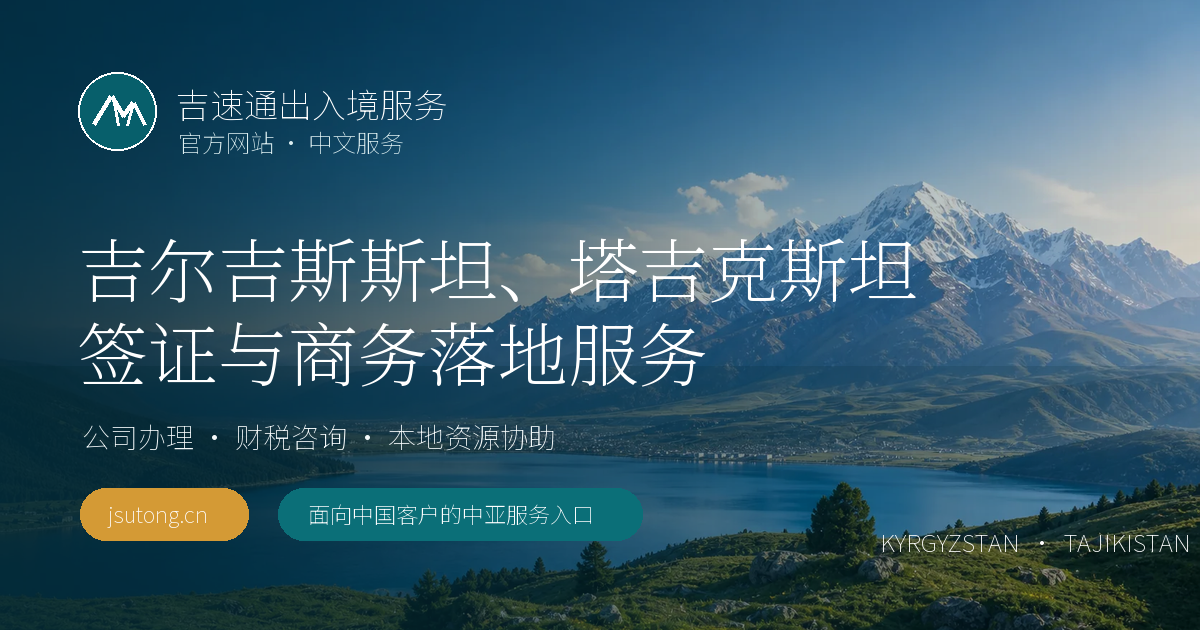
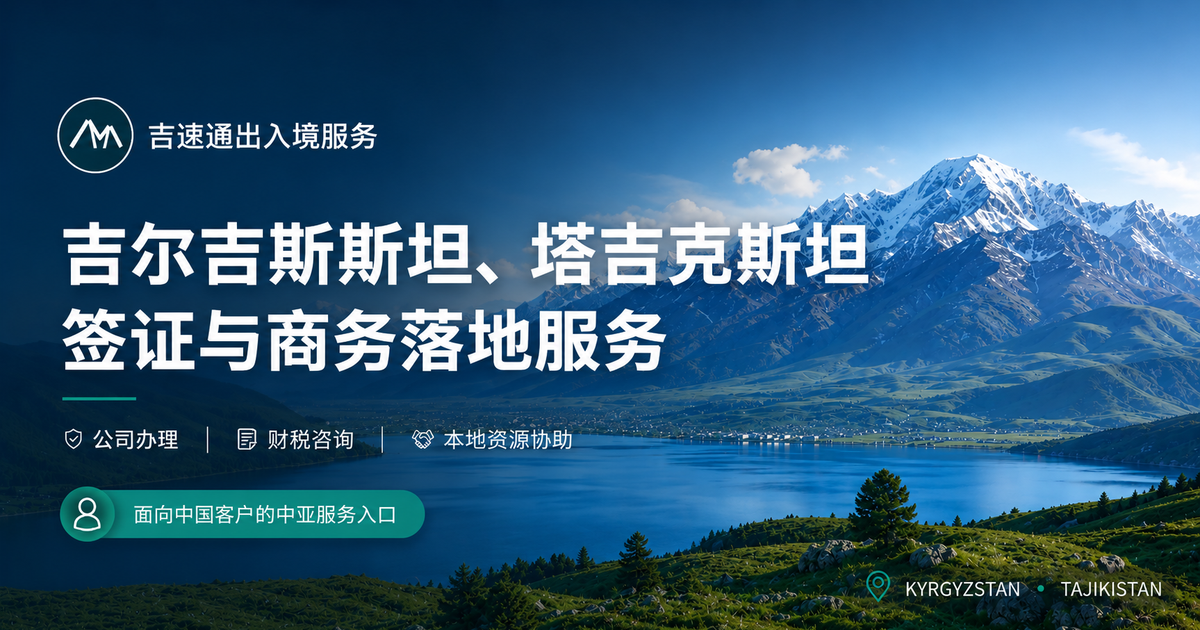
Use provided social preview image

diff --git a/scripts/generate-social-preview.py b/scripts/generate-social-preview.py
@@ -2,97 +2,25 @@ from __future__ import annotations
 
 from pathlib import Path
 
-from PIL import Image, ImageDraw, ImageEnhance, ImageFont
+from PIL import Image, ImageOps
 
 
 ROOT = Path(__file__).resolve().parents[1]
-SOURCE_IMAGE = ROOT / "frontend" / "src" / "assets" / "central-asia-hero.webp"
+SOURCE_IMAGE = ROOT / "docs" / "design" / "social-preview-source.png"
 OUTPUT_IMAGE = ROOT / "frontend" / "public" / "social-preview.png"
-WIDTH = 1200
-HEIGHT = 630
-
-
-def font(size: int, bold: bool = False, serif: bool = False) -> ImageFont.FreeTypeFont:
-    candidates = [
-        Path("C:/Windows/Fonts/NotoSerifSC-VF.ttf") if serif else None,
-        Path("C:/Windows/Fonts/NotoSansSC-VF.ttf"),
-        Path("C:/Windows/Fonts/msyhbd.ttc") if bold else Path("C:/Windows/Fonts/msyh.ttc"),
-        Path("C:/Windows/Fonts/simhei.ttf"),
-    ]
-    for candidate in candidates:
-        if candidate and candidate.exists():
-            return ImageFont.truetype(str(candidate), size=size)
-    return ImageFont.load_default()
-
-
-def cover(image: Image.Image, size: tuple[int, int]) -> Image.Image:
-    target_w, target_h = size
-    scale = max(target_w / image.width, target_h / image.height)
-    resized = image.resize((round(image.width * scale), round(image.height * scale)), Image.LANCZOS)
-    left = (resized.width - target_w) // 2
-    top = max(0, (resized.height - target_h) // 2 - 10)
-    return resized.crop((left, top, left + target_w, top + target_h))
-
-
-def draw_gradient_overlay(base: Image.Image) -> Image.Image:
-    overlay = Image.new("RGBA", base.size, (0, 0, 0, 0))
-    pixels = overlay.load()
-    for x in range(WIDTH):
-        ratio = x / WIDTH
-        alpha = round(192 * (1 - ratio) + 36 * ratio)
-        for y in range(HEIGHT):
-            vertical = 30 if y > HEIGHT * 0.58 else 0
-            pixels[x, y] = (4, 43, 55, min(225, alpha + vertical))
-    return Image.alpha_composite(base.convert("RGBA"), overlay)
-
-
-def rounded_rectangle(draw: ImageDraw.ImageDraw, box: tuple[int, int, int, int], radius: int, fill: str) -> None:
-    draw.rounded_rectangle(box, radius=radius, fill=fill)
-
-
-def draw_logo(draw: ImageDraw.ImageDraw, x: int, y: int) -> None:
-    draw.ellipse((x, y, x + 78, y + 78), fill="#075f6b", outline=(255, 255, 255, 130), width=2)
-    mountain = [(x + 16, y + 52), (x + 33, y + 24), (x + 45, y + 44), (x + 55, y + 30), (x + 66, y + 52)]
-    draw.line(mountain, fill="#ffffff", width=4, joint="curve")
-    draw.line((x + 35, y + 25, x + 40, y + 53), fill="#ffffff", width=3)
-    draw.line((x + 55, y + 31, x + 49, y + 53), fill="#ffffff", width=3)
+TARGET_SIZE = (1200, 630)
 
 
 def main() -> None:
-    hero = Image.open(SOURCE_IMAGE).convert("RGB")
-    hero = cover(hero, (WIDTH, HEIGHT))
-    hero = ImageEnhance.Color(hero).enhance(1.08)
-    hero = ImageEnhance.Contrast(hero).enhance(1.04)
-    canvas = draw_gradient_overlay(hero)
-    draw = ImageDraw.Draw(canvas)
+    if not SOURCE_IMAGE.exists():
+        raise FileNotFoundError(f"Missing source image: {SOURCE_IMAGE}")
 
-    title_font = font(70, bold=True, serif=True)
-    subtitle_font = font(34, bold=True)
-    body_font = font(28)
-    small_font = font(24)
-    tag_font = font(22, bold=True)
-
-    draw_logo(draw, 78, 72)
-    draw.text((176, 84), "吉速通出入境服务", fill="#ffffff", font=subtitle_font)
-    draw.text((178, 128), "官方网站 · 中文服务", fill=(220, 238, 240, 238), font=small_font)
-
-    title_y = 216
-    draw.text((78, title_y), "吉尔吉斯斯坦、塔吉克斯坦", fill="#ffffff", font=title_font)
-    draw.text((78, title_y + 84), "签证与商务落地服务", fill="#ffffff", font=title_font)
-
-    draw.text((82, 420), "公司办理 · 财税咨询 · 本地资源协助", fill=(244, 249, 250, 244), font=body_font)
-
-    rounded_rectangle(draw, (80, 488, 248, 540), 26, "#d49a35")
-    draw.text((108, 501), "jsutong.cn", fill="#ffffff", font=tag_font)
-
-    rounded_rectangle(draw, (278, 488, 642, 540), 26, "#0b6f78")
-    draw.text((308, 501), "面向中国客户的中亚服务入口", fill="#ffffff", font=tag_font)
-
-    draw.text((880, 528), "KYRGYZSTAN  ·  TAJIKISTAN", fill=(255, 255, 255, 215), font=small_font)
+    image = Image.open(SOURCE_IMAGE).convert("RGB")
+    preview = ImageOps.fit(image, TARGET_SIZE, method=Image.Resampling.LANCZOS, centering=(0.5, 0.5))
 
     OUTPUT_IMAGE.parent.mkdir(parents=True, exist_ok=True)
-    canvas.convert("RGB").save(OUTPUT_IMAGE, "PNG", optimize=True)
-    print(f"Wrote {OUTPUT_IMAGE} ({WIDTH}x{HEIGHT})")
+    preview.save(OUTPUT_IMAGE, "PNG", optimize=True)
+    print(f"Wrote {OUTPUT_IMAGE} ({TARGET_SIZE[0]}x{TARGET_SIZE[1]}) from {SOURCE_IMAGE}")
 
 
 if __name__ == "__main__":

diff --git a/memory.md b/memory.md
@@ -61,7 +61,7 @@ deploy/      Nginx、Docker、部署脚本
 - 首页展示范围：吉尔吉斯斯坦、塔吉克斯坦签证服务，公司办理，财税服务，商务落地，自然风貌展示，微信咨询二维码。
 - 首页不提供电话咨询入口；所有公开咨询入口统一引导用户微信扫码联系。
 - 移动端导航收敛为三项：`首页`、`服务项目`、`联系我们`。桌面端保留完整导航。
-- 官网 Open Graph / WhatsApp 链接预览图使用 `/social-preview.png`，规格为 1200x630；旧 `/wechat-share.png` 继续保留给微信邀请或历史分享入口兼容。
+- 官网 Open Graph / WhatsApp 链接预览图使用 `/social-preview.png`，规格为 1200x630，源图保存在 `docs/design/social-preview-source.png` 并通过 `scripts/generate-social-preview.py` 生成；旧 `/wechat-share.png` 继续保留给微信邀请或历史分享入口兼容。
 - 公司注册信息登记入口仍保留在 `/i/company-registration`，不是首页。
 - 委托书材料上传入口仍通过 `/i/:token/materials` 或 `/invitations/:token/materials` 使用。
 